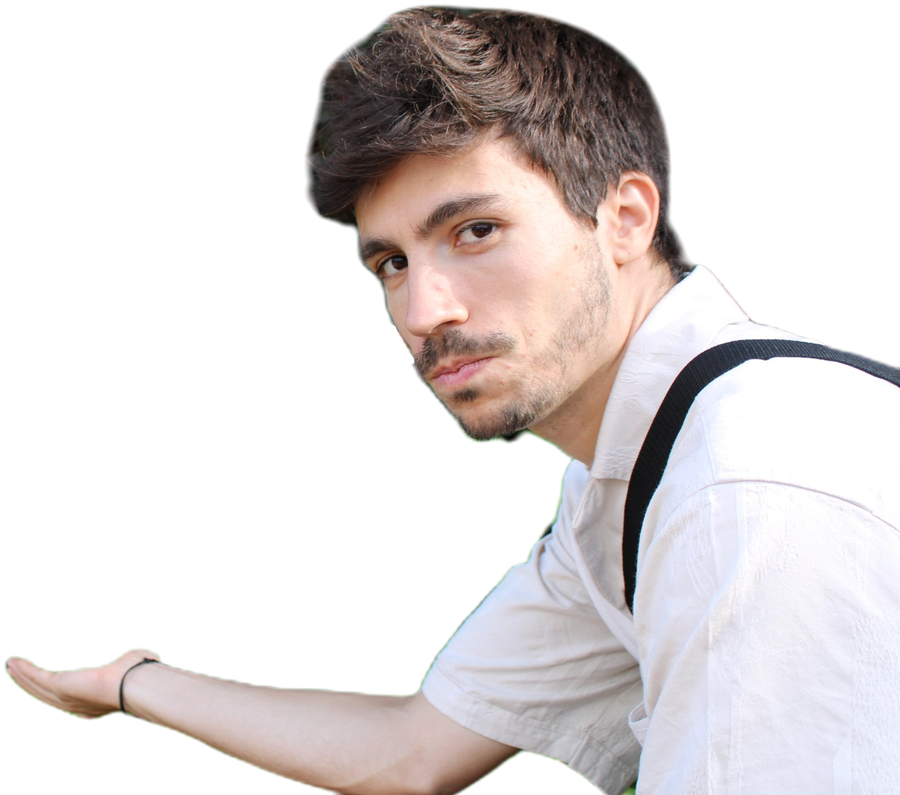
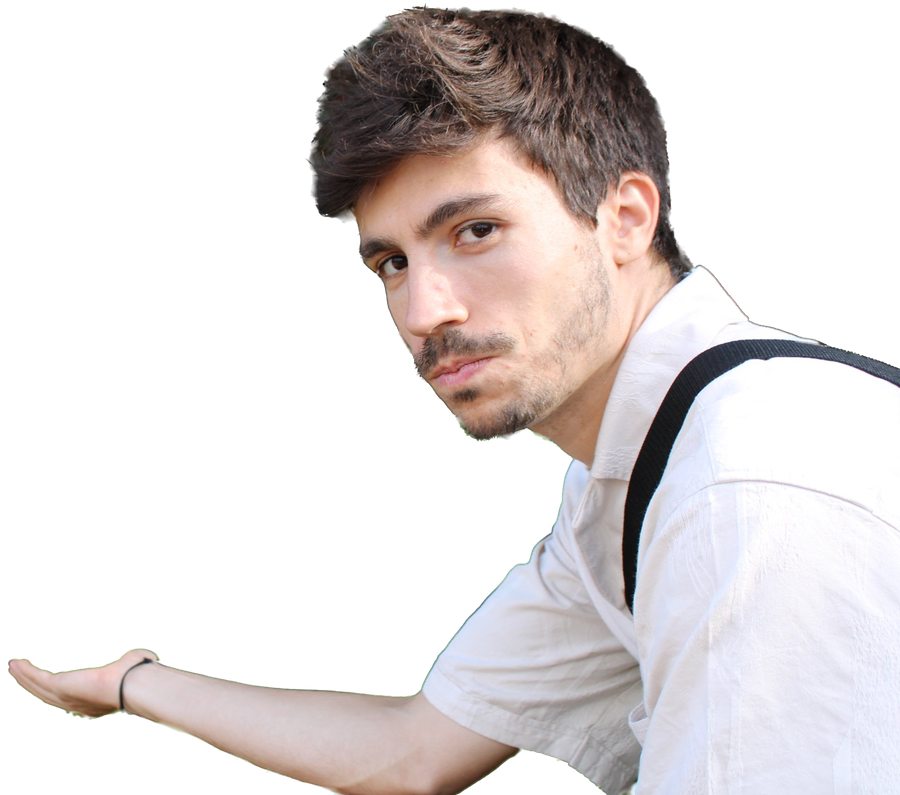
Added characters to start view

diff --git a/style.css b/style.css
@@ -50,13 +50,14 @@ button:focus-visible { outline: 3px solid var(--party); outline-offset: 2px; }
 /* hero pictures: friends/characters on the left, me on the right, the text in the middle */
 .hero { display: grid; grid-template-columns: 1fr auto 1fr; align-items: end; gap: 12px; }
 .hero-center { grid-column: 2; grid-row: 1; padding-bottom: 6px; }
-.hero-left  { grid-column: 1; grid-row: 1; display: grid; grid-template-columns: repeat(4, 1fr); gap: 6px; align-items: end; }
+.hero-left  { grid-column: 1; grid-row: 1; display: flex; flex-direction: column; justify-content: flex-end; gap: 10px; min-width: 0; }
+.hero-row { display: flex; justify-content: center; align-items: flex-end; gap: 6px; }
 /* my picture sits at the right edge and reaches to the left, so my hand ends up under the 30.
    The arm/hand part is a little see-through (mask), so it never hides the text. */
 .hero-right { grid-column: 2 / 4; grid-row: 1; position: relative; min-height: clamp(300px, 40vw, 420px); pointer-events: none; z-index: 2; }
-.hero-left img { width: 100%; height: 96px; object-fit: contain; object-position: bottom; transition: transform .15s; }
-.hero-left img:nth-child(even) { transform: translateY(-14px); }
-.hero-left img:hover { transform: translateY(-6px) scale(1.12); }
+.hero-left img { height: 104px; width: auto; min-width: 0; flex: 0 1 auto; object-fit: contain; object-position: bottom; transition: transform .15s; }
+.hero-row:first-child img { height: 136px; }
+.hero-left img:hover { transform: translateY(-6px) scale(1.08); }
 .hero-right img {
   position: absolute; right: 0; bottom: 0; height: 100%; width: auto; max-width: none;
   /* only the hand and forearm (bottom left of the picture) are see-through */
@@ -67,8 +68,9 @@ button:focus-visible { outline: 3px solid var(--party); outline-offset: 2px; }
   .hero { grid-template-columns: 1fr 1fr; align-items: end; row-gap: 14px; }
   .hero-center { grid-column: 1 / -1; grid-row: 1; }
   .hero-right { grid-column: 1 / -1; grid-row: 2; min-height: 250px; margin-top: -8px; }
-  .hero-left  { grid-column: 1 / -1; grid-row: 3; grid-template-columns: repeat(4, 1fr); }
-  .hero-left img { height: 84px; }
+  .hero-left  { grid-column: 1 / -1; grid-row: 3; }
+  .hero-left img { height: 78px; }
+  .hero-row:first-child img { height: 92px; }
 }
 
 /* section heading */

diff --git a/content.js b/content.js
@@ -25,19 +25,20 @@ const LOCKED = [];
 //   { name: "Maria", days: ["2027-04-21", "2027-04-25"], photo: "" },
 // Pictures at the top of the page. Use PNGs with a transparent background.
 //  me:      my photo, shown on the right next to the "30" (e.g. me holding the 30)
-//  friends: pictures on the left, in this order (any number; 8 fit nicely). alt = name shown on hover.
+//  friends: pictures on the left. alt = name shown on hover. bottom: true puts it in the lower row.
 // These are PLACEHOLDERS: put your files in images/hero/ and change the paths.
 const HERO = {
   me: { image: "images/hero/me.png", alt: "Gaspar" },
+  // bottom: true = the picture has the legs cut off, so it stands on the bottom edge (second row)
   friends: [
-    { image: "images/hero/friend-1.svg", alt: "Goku" },
-    { image: "images/hero/friend-2.svg", alt: "Enid" },
-    { image: "images/hero/friend-3.svg", alt: "Iron Giant" },
-    { image: "images/hero/friend-4.svg", alt: "Silksong" },
-    { image: "images/hero/friend-5.svg", alt: "Sonic" },
-    { image: "images/hero/friend-6.svg", alt: "Princess Mononoke" },
-    { image: "images/hero/friend-7.svg", alt: "Wargreymon" },
-    { image: "images/hero/friend-8.svg", alt: "Gaara" },
+    { image: "images/hero/goku.png",       alt: "Goku" },
+    { image: "images/hero/sonic.png",      alt: "Sonic" },
+    { image: "images/hero/hornet.png",     alt: "Silksong" },
+    { image: "images/hero/wargreymon.png", alt: "Wargreymon" },
+    { image: "images/hero/iron-giant.png", alt: "Iron Giant", bottom: true },
+    { image: "images/hero/gaara.png",      alt: "Gaara",      bottom: true },
+    { image: "images/hero/ashitaka.png",   alt: "Ashitaka",   bottom: true },
+    { image: "images/hero/enid.png",       alt: "Enid",       bottom: true },
   ],
 };
 

diff --git a/app.js b/app.js
@@ -423,7 +423,11 @@ function renderHero() {
     img.addEventListener("error", () => img.remove());   // missing file: just skip it
     box.appendChild(img);
   };
-  (HERO.friends || []).forEach((p) => add(left, p));
+  // two rows: full-body pictures on top, pictures with the legs cut off stand on the bottom edge
+  const top = document.createElement("div"), bottom = document.createElement("div");
+  top.className = "hero-row"; bottom.className = "hero-row";
+  left.append(top, bottom);
+  (HERO.friends || []).forEach((p) => add(p.bottom ? bottom : top, p));
   add(right, HERO.me);
 }
 
